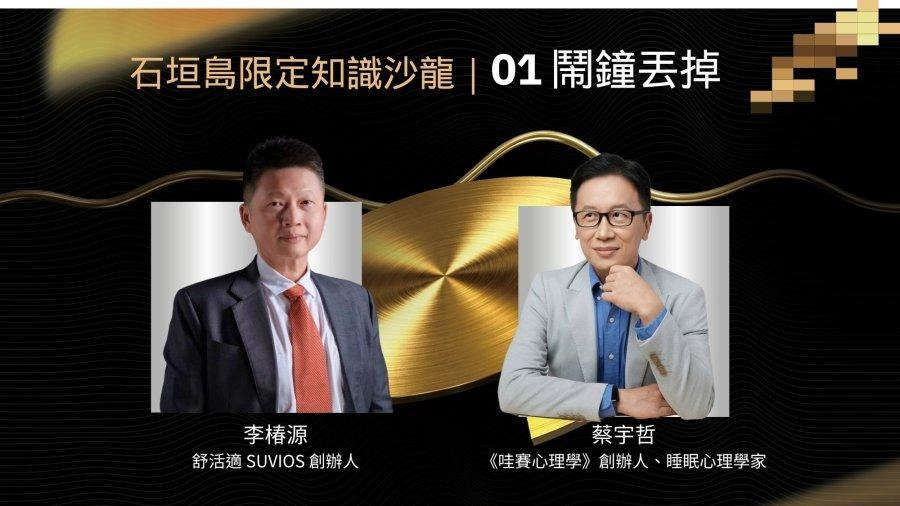
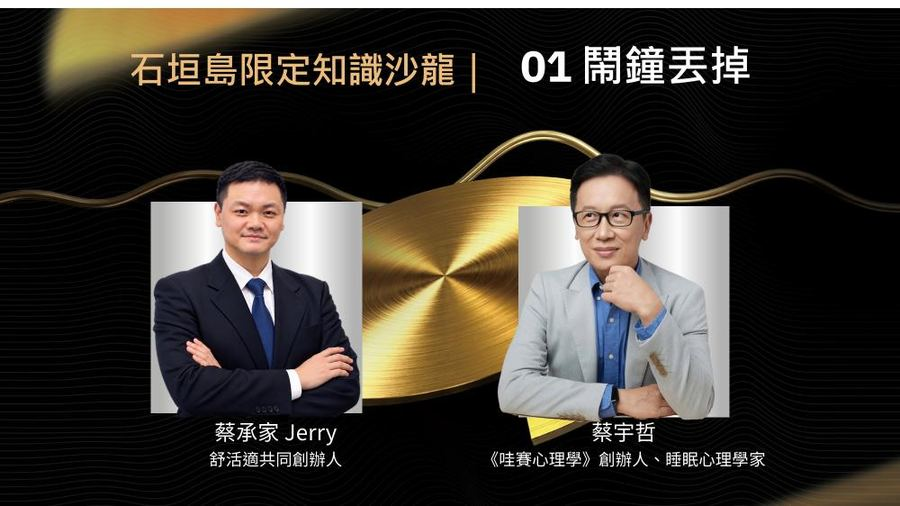
fix: 知識沙龍 01 圖片更正為蔡承家 Jerry × 蔡宇哲（原圖為 PDF 內被覆蓋的舊版）
Claude-Session: https://claude.ai/code/session_01YSzTHT66MvGGuiida2bzWV

diff --git a/sw.js b/sw.js
@@ -1,5 +1,5 @@
 /* 離線快取：連上網時永遠拿最新版，沒訊號時用上次存下的內容 */
-const V = 'isg-v2';
+const V = 'isg-v3';
 const FILES = ["./", "index.html", "manifest.webmanifest", "assets/apple-touch-icon.png", "assets/archery.jpg", "assets/beach.jpg", "assets/counter.jpg", "assets/cover.jpg", "assets/icon-192.png", "assets/icon-512.png", "assets/info-quick.jpg", "assets/info-security.jpg", "assets/info-tax.jpg", "assets/info-vjw.jpg", "assets/kids.jpg", "assets/kidspool.jpg", "assets/pool.jpg", "assets/poster.jpg", "assets/restaurant.jpg", "assets/room-deluxe.jpg", "assets/room-standard.jpg", "assets/salon1.jpg", "assets/salon2.jpg", "assets/salon3.jpg", "assets/tennis.jpg", "assets/terrace.jpg", "assets/trapeze.jpg", "assets/water.jpg"];
 self.addEventListener('install', e => {
   e.waitUntil(caches.open(V).then(c => c.addAll(FILES)).then(() => self.skipWaiting()));
